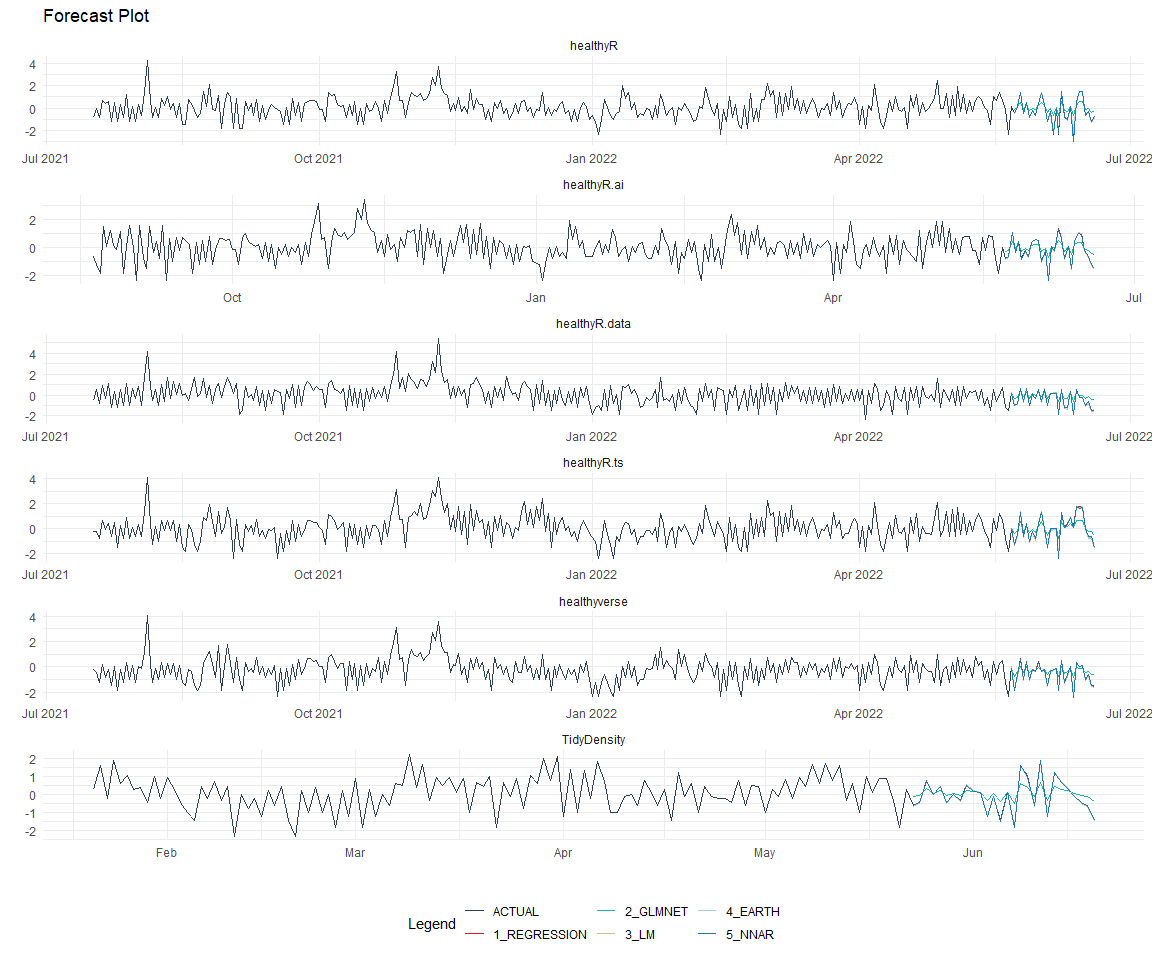
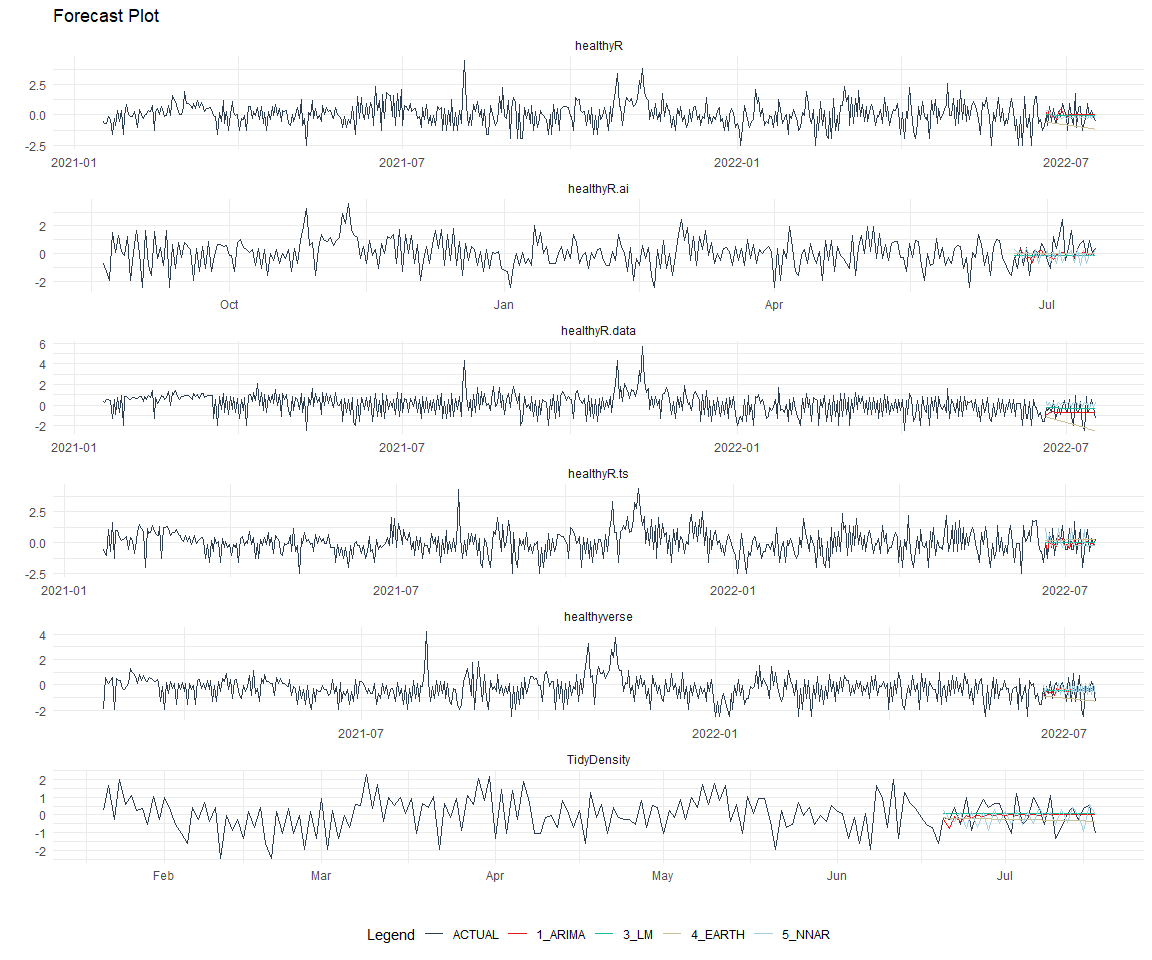
updates

diff --git a/README.md b/README.md
@@ -141,56 +141,6 @@ data_transformed_tbl <- data_liv_tbl %>%
   select(-value)
 ```
 
-Now that we have our full data set and saved our parameters we can
-create the full data set.
-
-``` r
-horizon         <- 4*7
-lag_period      <- 4*7
-rolling_periods <- c(7, 14, 28)
-
-data_prepared_full_tbl <- data_transformed_tbl %>%
-  group_by(package) %>%
-  
-  # Add future windows
-  bind_rows(
-    future_frame(., .date_var = date, .length_out = horizon)
-  ) %>%
-  
-  # Add autocorolated lags
-  tk_augment_lags(value_trans, .lags = lag_period) %>%
-  
-  # Add rolling features
-  tk_augment_slidify(
-    .value     = value_trans_lag28
-    , .f       = median
-    , .period  = rolling_periods
-    , .align   = "center"
-    , .partial = TRUE
-  ) %>%
-  
-  # Format columns
-  rename_with(.cols = contains("lag"), .fn = ~ str_c("lag_", .)) %>%
-  select(date, package, everything()) %>%
-  ungroup()
-
-data_prepared_full_tbl %>% 
-  group_by(package) %>% 
-  pivot_longer(-c(date, package)) %>% 
-  plot_time_series(
-    .date_var = date
-    , .value = value
-    , .color_var = name
-    , .smooth = FALSE
-    , .interactive = FALSE
-    , .facet_scales = "free"
-  ) +
-  theme_minimal() +
-  theme(legend.position = "bottom")
-```
-
-![](man/figures/README-data_prepared_full_tbl-1.png)<!-- -->
-
 Since this is panel data we can follow one of two different modeling
 strategies. We can search for a global model in the panel data or we can
 use nested forecasting finding the best model for each of the time
@@ -200,21 +150,45 @@ To do this we will use the `nest_timeseries` and
 `split_nested_timeseries` functions to create a nested `tibble`.
 
 ``` r
-data_prepared_tbl <- data_prepared_full_tbl %>%
-  filter(!is.na(value_trans))
+horizon <- 4*7
 
-forecast_tbl <- data_prepared_full_tbl %>%
-  filter(is.na(value_trans))
+nested_data_tbl <- data_transformed_tbl %>%
+    
+    # 1. Extending: We'll predict n days into the future.
+    extend_timeseries(
+        .id_var        = package,
+        .date_var      = date,
+        .length_future = horizon
+    ) %>%
+    
+    # 2. Nesting: We'll group by id, and create a future dataset
+    #    that forecasts n days of extended data and
+    #    an actual dataset that contains n*2 days
+    nest_timeseries(
+        .id_var        = package,
+        .length_future = horizon
+        #.length_actual = horizon*2
+    ) %>%
+    
+   # 3. Splitting: We'll take the actual data and create splits
+   #    for accuracy and confidence interval estimation of n das (test)
+   #    and the rest is training data
+    split_nested_timeseries(
+        .length_test = horizon
+    )
 
-nested_data_tbl <- data_prepared_tbl %>%
-  nest_timeseries(
-    .id_var = package
-    , .length_future = horizon
-  ) %>%
-  split_nested_timeseries(
-    .length_test = horizon
-  )
+nested_data_tbl
 ```
+
+    ## # A tibble: 6 × 4
+    ##   package       .actual_data       .future_data      .splits         
+    ##   <fct>         <list>             <list>            <list>          
+    ## 1 healthyR      <tibble [546 × 2]> <tibble [28 × 2]> <split [518|28]>
+    ## 2 healthyR.data <tibble [543 × 2]> <tibble [28 × 2]> <split [515|28]>
+    ## 3 healthyR.ts   <tibble [539 × 2]> <tibble [28 × 2]> <split [511|28]>
+    ## 4 healthyverse  <tibble [515 × 2]> <tibble [28 × 2]> <split [487|28]>
+    ## 5 healthyR.ai   <tibble [330 × 2]> <tibble [28 × 2]> <split [302|28]>
+    ## 6 TidyDensity   <tibble [178 × 2]> <tibble [28 × 2]> <split [150|28]>
 
 Now it is time to make some recipes and models using the modeltime
 workflow.
@@ -225,14 +199,9 @@ workflow.
 
 ``` r
 recipe_base <- recipe(
-  value_trans ~ .
+  value_trans ~ date
   , data = extract_nested_test_split(nested_data_tbl)
-  ) %>%
-  step_mutate(yr = lubridate::year(date)) %>%
-  step_harmonic(yr, frequency = 365/12, cycle_size = 1) %>%
-  step_hai_fourier(value_trans, scale_type = "sincos", period = 365/12, order = 1) %>%
-  step_lag(value_trans, lag = 1) %>%
-  step_impute_knn(contains("lag_"))
+  )
 
 recipe_base
 ```
@@ -243,15 +212,7 @@ recipe_base
     ## 
     ##       role #variables
     ##    outcome          1
-    ##  predictor          5
-    ## 
-    ## Operations:
-    ## 
-    ## Variable mutation for lubridate::year(date)
-    ## Harmonic numeric variables for yr
-    ## Fourier Transformation on value_trans
-    ## Lagging value_trans
-    ## K-nearest neighbor imputation for contains("lag_")
+    ##  predictor          1
 
 ``` r
 recipe_date <- recipe_base %>%
@@ -339,13 +300,13 @@ nested_modeltime_tbl
     ## # Nested Modeltime Table
     ##   # A tibble: 6 × 5
     ##   package       .actual_data       .future_data .splits          .modeltime_ta…¹
-    ##   <chr>         <list>             <list>       <list>           <list>         
-    ## 1 healthyR      <tibble [337 × 6]> <tibble>     <split [309|28]> <mdl_time_tbl> 
-    ## 2 healthyR.data <tibble [334 × 6]> <tibble>     <split [306|28]> <mdl_time_tbl> 
-    ## 3 healthyR.ts   <tibble [335 × 6]> <tibble>     <split [307|28]> <mdl_time_tbl> 
-    ## 4 healthyverse  <tibble [337 × 6]> <tibble>     <split [309|28]> <mdl_time_tbl> 
-    ## 5 healthyR.ai   <tibble [302 × 6]> <tibble>     <split [274|28]> <mdl_time_tbl> 
-    ## 6 TidyDensity   <tibble [150 × 6]> <tibble>     <split [122|28]> <mdl_time_tbl> 
+    ##   <fct>         <list>             <list>       <list>           <list>         
+    ## 1 healthyR      <tibble [546 × 2]> <tibble>     <split [518|28]> <mdl_time_tbl> 
+    ## 2 healthyR.data <tibble [543 × 2]> <tibble>     <split [515|28]> <mdl_time_tbl> 
+    ## 3 healthyR.ts   <tibble [539 × 2]> <tibble>     <split [511|28]> <mdl_time_tbl> 
+    ## 4 healthyverse  <tibble [515 × 2]> <tibble>     <split [487|28]> <mdl_time_tbl> 
+    ## 5 healthyR.ai   <tibble [330 × 2]> <tibble>     <split [302|28]> <mdl_time_tbl> 
+    ## 6 TidyDensity   <tibble [178 × 2]> <tibble>     <split [150|28]> <mdl_time_tbl> 
     ## # … with abbreviated variable name ¹.modeltime_tables
 
 ### Model Accuracy
@@ -356,38 +317,38 @@ nested_modeltime_tbl %>%
   knitr::kable()
 ```
 
-| package       | .model_id | .model_desc | .type |       mae |        mape |      mase |       smape |      rmse |       rsq |
-|:--------------|----------:|:------------|:------|----------:|------------:|----------:|------------:|----------:|----------:|
-| healthyR      |         1 | REGRESSION  | Test  | 0.0556802 |  10.8266075 | 0.0417755 |   9.7822912 | 0.0676270 | 0.9961500 |
-| healthyR      |         2 | GLMNET      | Test  | 0.6086222 |  66.5753782 | 0.4566345 | 103.1015067 | 0.7626602 | 0.9963166 |
-| healthyR      |         3 | LM          | Test  | 0.0628930 |  13.6065948 | 0.0471871 |  12.7075637 | 0.0726708 | 0.9959903 |
-| healthyR      |         4 | EARTH       | Test  | 0.0426408 |   4.5337510 | 0.0319924 |   4.4934249 | 0.0773993 | 0.9963166 |
-| healthyR      |         5 | NNAR        | Test  | 0.0342882 |   2.3040576 | 0.0257256 |   2.1727029 | 0.1254688 | 0.9889417 |
-| healthyR.data |         1 | REGRESSION  | Test  | 0.0538578 |  10.2671126 | 0.0496066 |  10.3838718 | 0.0673403 | 0.9961093 |
-| healthyR.data |         2 | GLMNET      | Test  | 0.4842011 |  59.4245156 | 0.4459819 |  90.7263746 | 0.6039872 | 0.9985939 |
-| healthyR.data |         3 | LM          | Test  | 0.0518711 |   9.9287277 | 0.0477768 |   9.9288408 | 0.0646270 | 0.9961324 |
-| healthyR.data |         4 | EARTH       | Test  | 0.0272793 |   4.7478882 | 0.0251261 |   4.7426515 | 0.0372207 | 0.9979981 |
-| healthyR.data |         5 | NNAR        | Test  | 0.0068191 |   1.5906585 | 0.0062808 |   1.6359542 | 0.0095441 | 0.9998557 |
-| healthyR.ts   |         1 | REGRESSION  | Test  | 0.0565227 | 138.4632048 | 0.0512013 |  40.0152820 | 0.0646056 | 0.9972930 |
-| healthyR.ts   |         2 | GLMNET      | Test  | 0.5059861 | 265.7773568 | 0.4583492 | 105.8108654 | 0.6495585 | 0.9980614 |
-| healthyR.ts   |         3 | LM          | Test  | 0.0612379 | 139.4321565 | 0.0554726 |  37.6182883 | 0.0703111 | 0.9972069 |
-| healthyR.ts   |         4 | EARTH       | Test  | 0.0268251 |  22.2006325 | 0.0242996 |  15.3546013 | 0.0475657 | 0.9980614 |
-| healthyR.ts   |         5 | NNAR        | Test  | 0.0061637 |  17.0787952 | 0.0055834 |  23.9566747 | 0.0087867 | 0.9999567 |
-| healthyverse  |         1 | REGRESSION  | Test  | 0.0405227 |  42.9750507 | 0.0384557 |  23.6885892 | 0.0532830 | 0.9956930 |
-| healthyverse  |         2 | GLMNET      | Test  | 0.4445451 | 340.0799718 | 0.4218703 |  99.8239056 | 0.5822621 | 0.9964317 |
-| healthyverse  |         3 | LM          | Test  | 0.0511086 |  30.1769760 | 0.0485017 |  16.3987121 | 0.0636796 | 0.9957042 |
-| healthyverse  |         4 | EARTH       | Test  | 0.0090636 |   8.7048159 | 0.0086013 |   6.7971876 | 0.0125298 | 0.9997515 |
-| healthyverse  |         5 | NNAR        | Test  | 0.0094888 |  76.5376619 | 0.0090048 |   8.0979386 | 0.0242348 | 0.9990756 |
-| healthyR.ai   |         1 | REGRESSION  | Test  | 0.0463580 |   8.7387293 | 0.0487060 |   9.1572607 | 0.0552714 | 0.9966397 |
-| healthyR.ai   |         2 | GLMNET      | Test  | 0.4839322 |  63.5661576 | 0.5084428 |  98.1138584 | 0.5989754 | 0.9969313 |
-| healthyR.ai   |         3 | LM          | Test  | 0.0470550 |   9.0768545 | 0.0494383 |   9.5646090 | 0.0555512 | 0.9966349 |
-| healthyR.ai   |         4 | EARTH       | Test  | 0.0125015 |   2.3634941 | 0.0131347 |   2.3222354 | 0.0145077 | 0.9997438 |
-| healthyR.ai   |         5 | NNAR        | Test  | 0.0030952 |   0.4637091 | 0.0032520 |   0.4635051 | 0.0045757 | 0.9999837 |
-| TidyDensity   |         1 | REGRESSION  | Test  | 0.0299030 |  11.4950215 | 0.0276186 |  10.0667034 | 0.0351136 | 0.9986067 |
-| TidyDensity   |         2 | GLMNET      | Test  | 0.4921805 | 159.7103960 | 0.4545820 | 110.8505258 | 0.6294670 | 0.9989341 |
-| TidyDensity   |         3 | LM          | Test  | 0.0328441 |  17.3769048 | 0.0303351 |  11.5529107 | 0.0378906 | 0.9985179 |
-| TidyDensity   |         4 | EARTH       | Test  | 0.0087256 |   2.5814768 | 0.0080591 |   2.4826898 | 0.0111323 | 0.9998627 |
-| TidyDensity   |         5 | NNAR        | Test  | 0.0072132 |   2.7052630 | 0.0066622 |   2.5151259 | 0.0105860 | 0.9998741 |
+| package       | .model_id | .model_desc | .type |       mae |      mape |      mase |     smape |      rmse |       rsq |
+|:--------------|----------:|:------------|:------|----------:|----------:|----------:|----------:|----------:|----------:|
+| healthyR      |         1 | ARIMA       | Test  | 0.5655915 | 132.38179 | 0.5379867 | 146.80899 | 0.7007541 | 0.1516892 |
+| healthyR      |         2 | NULL        | NA    |        NA |        NA |        NA |        NA |        NA |        NA |
+| healthyR      |         3 | LM          | Test  | 0.6094394 |  98.86571 | 0.5796945 | 192.83442 | 0.7480666 | 0.0020997 |
+| healthyR      |         4 | EARTH       | Test  | 0.9263144 | 480.14945 | 0.8811038 | 132.01585 | 1.1446782 | 0.0020997 |
+| healthyR      |         5 | NNAR        | Test  | 0.6448237 | 171.89251 | 0.6133518 | 151.22267 | 0.7909987 | 0.0048388 |
+| healthyR.data |         1 | ARIMA       | Test  | 0.6757179 | 128.87844 | 0.6470700 |  94.42837 | 0.8606833 | 0.0004054 |
+| healthyR.data |         2 | NULL        | NA    |        NA |        NA |        NA |        NA |        NA |        NA |
+| healthyR.data |         3 | LM          | Test  | 0.6694996 |  84.17816 | 0.6411153 | 112.92765 | 0.8577534 | 0.0039213 |
+| healthyR.data |         4 | EARTH       | Test  | 1.3246507 | 312.48453 | 1.2684904 | 112.29818 | 1.5790628 | 0.0039213 |
+| healthyR.data |         5 | NNAR        | Test  | 0.8059671 | 112.40281 | 0.7717971 | 153.71988 | 1.0222615 | 0.0311393 |
+| healthyR.ts   |         1 | ARIMA       | Test  | 0.6468247 |  92.81588 | 0.5241874 | 148.36539 | 0.8029875 | 0.1879242 |
+| healthyR.ts   |         2 | NULL        | NA    |        NA |        NA |        NA |        NA |        NA |        NA |
+| healthyR.ts   |         3 | LM          | Test  | 0.7188285 | 103.31940 | 0.5825393 | 183.23084 | 0.8678163 | 0.0008364 |
+| healthyR.ts   |         4 | EARTH       | Test  | 0.7173667 | 122.44168 | 0.5813547 | 139.32954 | 0.8840634 | 0.0008364 |
+| healthyR.ts   |         5 | NNAR        | Test  | 0.8481029 | 273.00314 | 0.6873034 | 156.05893 | 1.0325425 | 0.0077811 |
+| healthyverse  |         1 | ARIMA       | Test  | 0.6273316 | 201.18068 | 0.6195471 | 114.86819 | 0.7995790 | 0.0004859 |
+| healthyverse  |         2 | NULL        | NA    |        NA |        NA |        NA |        NA |        NA |        NA |
+| healthyverse  |         3 | LM          | Test  | 0.6282850 | 224.99738 | 0.6204886 | 115.30304 | 0.7808559 | 0.0110279 |
+| healthyverse  |         4 | EARTH       | Test  | 0.8274908 | 556.02513 | 0.8172225 | 109.39905 | 0.9909475 | 0.0110279 |
+| healthyverse  |         5 | NNAR        | Test  | 0.6834608 | 168.61343 | 0.6749798 | 142.82301 | 0.8498168 | 0.0057138 |
+| healthyR.ai   |         1 | ARIMA       | Test  | 0.7098056 | 182.68351 | 0.6605898 | 165.52423 | 0.8933548 | 0.0646031 |
+| healthyR.ai   |         2 | NULL        | NA    |        NA |        NA |        NA |        NA |        NA |        NA |
+| healthyR.ai   |         3 | LM          | Test  | 0.7369270 | 116.68286 | 0.6858307 | 167.42754 | 0.9338307 | 0.1459483 |
+| healthyR.ai   |         4 | EARTH       | Test  | 0.7017602 |  97.84553 | 0.6531023 | 190.78522 | 0.8937152 | 0.1459483 |
+| healthyR.ai   |         5 | NNAR        | Test  | 0.7220606 | 173.74582 | 0.6719951 | 134.28932 | 0.9626504 | 0.0210975 |
+| TidyDensity   |         1 | ARIMA       | Test  | 0.6045902 | 100.79892 | 0.6522139 | 181.68558 | 0.6978543 | 0.0267364 |
+| TidyDensity   |         2 | NULL        | NA    |        NA |        NA |        NA |        NA |        NA |        NA |
+| TidyDensity   |         3 | LM          | Test  | 0.6023867 |  99.56834 | 0.6498369 | 165.10303 | 0.6966865 | 0.0142188 |
+| TidyDensity   |         4 | EARTH       | Test  | 0.6363870 | 114.16753 | 0.6865154 | 138.05602 | 0.7588403 | 0.0142188 |
+| TidyDensity   |         5 | NNAR        | Test  | 0.6963791 | 149.69327 | 0.7512331 | 143.89741 | 0.8371439 | 0.0000800 |
 
 ### Plot Models
 
@@ -422,20 +383,20 @@ best_nested_modeltime_tbl %>%
 
     ## # Nested Modeltime Table
     ##   # A tibble: 6 × 10
-    ##   package      .mode…¹ .mode…² .type     mae   mape    mase  smape    rmse   rsq
-    ##   <chr>          <int> <chr>   <chr>   <dbl>  <dbl>   <dbl>  <dbl>   <dbl> <dbl>
-    ## 1 healthyR           1 REGRES… Test  0.0557  10.8   0.0418   9.78  0.0676  0.996
-    ## 2 healthyR.da…       5 NNAR    Test  0.00682  1.59  0.00628  1.64  0.00954 1.00 
-    ## 3 healthyR.ts        5 NNAR    Test  0.00616 17.1   0.00558 24.0   0.00879 1.00 
-    ## 4 healthyverse       4 EARTH   Test  0.00906  8.70  0.00860  6.80  0.0125  1.00 
-    ## 5 healthyR.ai        5 NNAR    Test  0.00310  0.464 0.00325  0.464 0.00458 1.00 
-    ## 6 TidyDensity        5 NNAR    Test  0.00721  2.71  0.00666  2.52  0.0106  1.00 
-    ## # … with abbreviated variable names ¹.model_id, ².model_desc
+    ##   package       .model_id .model_d…¹ .type   mae  mape  mase smape  rmse     rsq
+    ##   <fct>             <int> <chr>      <chr> <dbl> <dbl> <dbl> <dbl> <dbl>   <dbl>
+    ## 1 healthyR              1 ARIMA      Test  0.566 132.  0.538  147. 0.701 0.152  
+    ## 2 healthyR.data         3 LM         Test  0.669  84.2 0.641  113. 0.858 0.00392
+    ## 3 healthyR.ts           1 ARIMA      Test  0.647  92.8 0.524  148. 0.803 0.188  
+    ## 4 healthyverse          3 LM         Test  0.628 225.  0.620  115. 0.781 0.0110 
+    ## 5 healthyR.ai           1 ARIMA      Test  0.710 183.  0.661  166. 0.893 0.0646 
+    ## 6 TidyDensity           3 LM         Test  0.602  99.6 0.650  165. 0.697 0.0142 
+    ## # … with abbreviated variable name ¹.model_desc
 
 ``` r
 best_nested_modeltime_tbl %>%
   extract_nested_test_forecast() %>%
-  filter(!is.na(.model_id)) %>%
+  #filter(!is.na(.model_id)) %>%
   group_by(package) %>%
   plot_modeltime_forecast(
     .interactive = FALSE,
@@ -454,12 +415,9 @@ Now that we have the best models, we can make our future forecasts.
 
 ``` r
 nested_modeltime_refit_tbl <- best_nested_modeltime_tbl %>%
-  modeltime_nested_refit(
-    control = control_nested_refit(
-      verbose = TRUE, 
-      allow_par = FALSE
+    modeltime_nested_refit(
+        control = control_nested_refit(verbose = TRUE)
     )
-  )
 ```
 
 ``` r
@@ -469,13 +427,13 @@ nested_modeltime_refit_tbl
     ## # Nested Modeltime Table
     ##   # A tibble: 6 × 5
     ##   package       .actual_data       .future_data .splits          .modeltime_ta…¹
-    ##   <chr>         <list>             <list>       <list>           <list>         
-    ## 1 healthyR      <tibble [337 × 6]> <tibble>     <split [309|28]> <mdl_time_tbl> 
-    ## 2 healthyR.data <tibble [334 × 6]> <tibble>     <split [306|28]> <mdl_time_tbl> 
-    ## 3 healthyR.ts   <tibble [335 × 6]> <tibble>     <split [307|28]> <mdl_time_tbl> 
-    ## 4 healthyverse  <tibble [337 × 6]> <tibble>     <split [309|28]> <mdl_time_tbl> 
-    ## 5 healthyR.ai   <tibble [302 × 6]> <tibble>     <split [274|28]> <mdl_time_tbl> 
-    ## 6 TidyDensity   <tibble [150 × 6]> <tibble>     <split [122|28]> <mdl_time_tbl> 
+    ##   <fct>         <list>             <list>       <list>           <list>         
+    ## 1 healthyR      <tibble [546 × 2]> <tibble>     <split [518|28]> <mdl_time_tbl> 
+    ## 2 healthyR.data <tibble [543 × 2]> <tibble>     <split [515|28]> <mdl_time_tbl> 
+    ## 3 healthyR.ts   <tibble [539 × 2]> <tibble>     <split [511|28]> <mdl_time_tbl> 
+    ## 4 healthyverse  <tibble [515 × 2]> <tibble>     <split [487|28]> <mdl_time_tbl> 
+    ## 5 healthyR.ai   <tibble [330 × 2]> <tibble>     <split [302|28]> <mdl_time_tbl> 
+    ## 6 TidyDensity   <tibble [178 × 2]> <tibble>     <split [150|28]> <mdl_time_tbl> 
     ## # … with abbreviated variable name ¹.modeltime_tables
 
 ``` r
